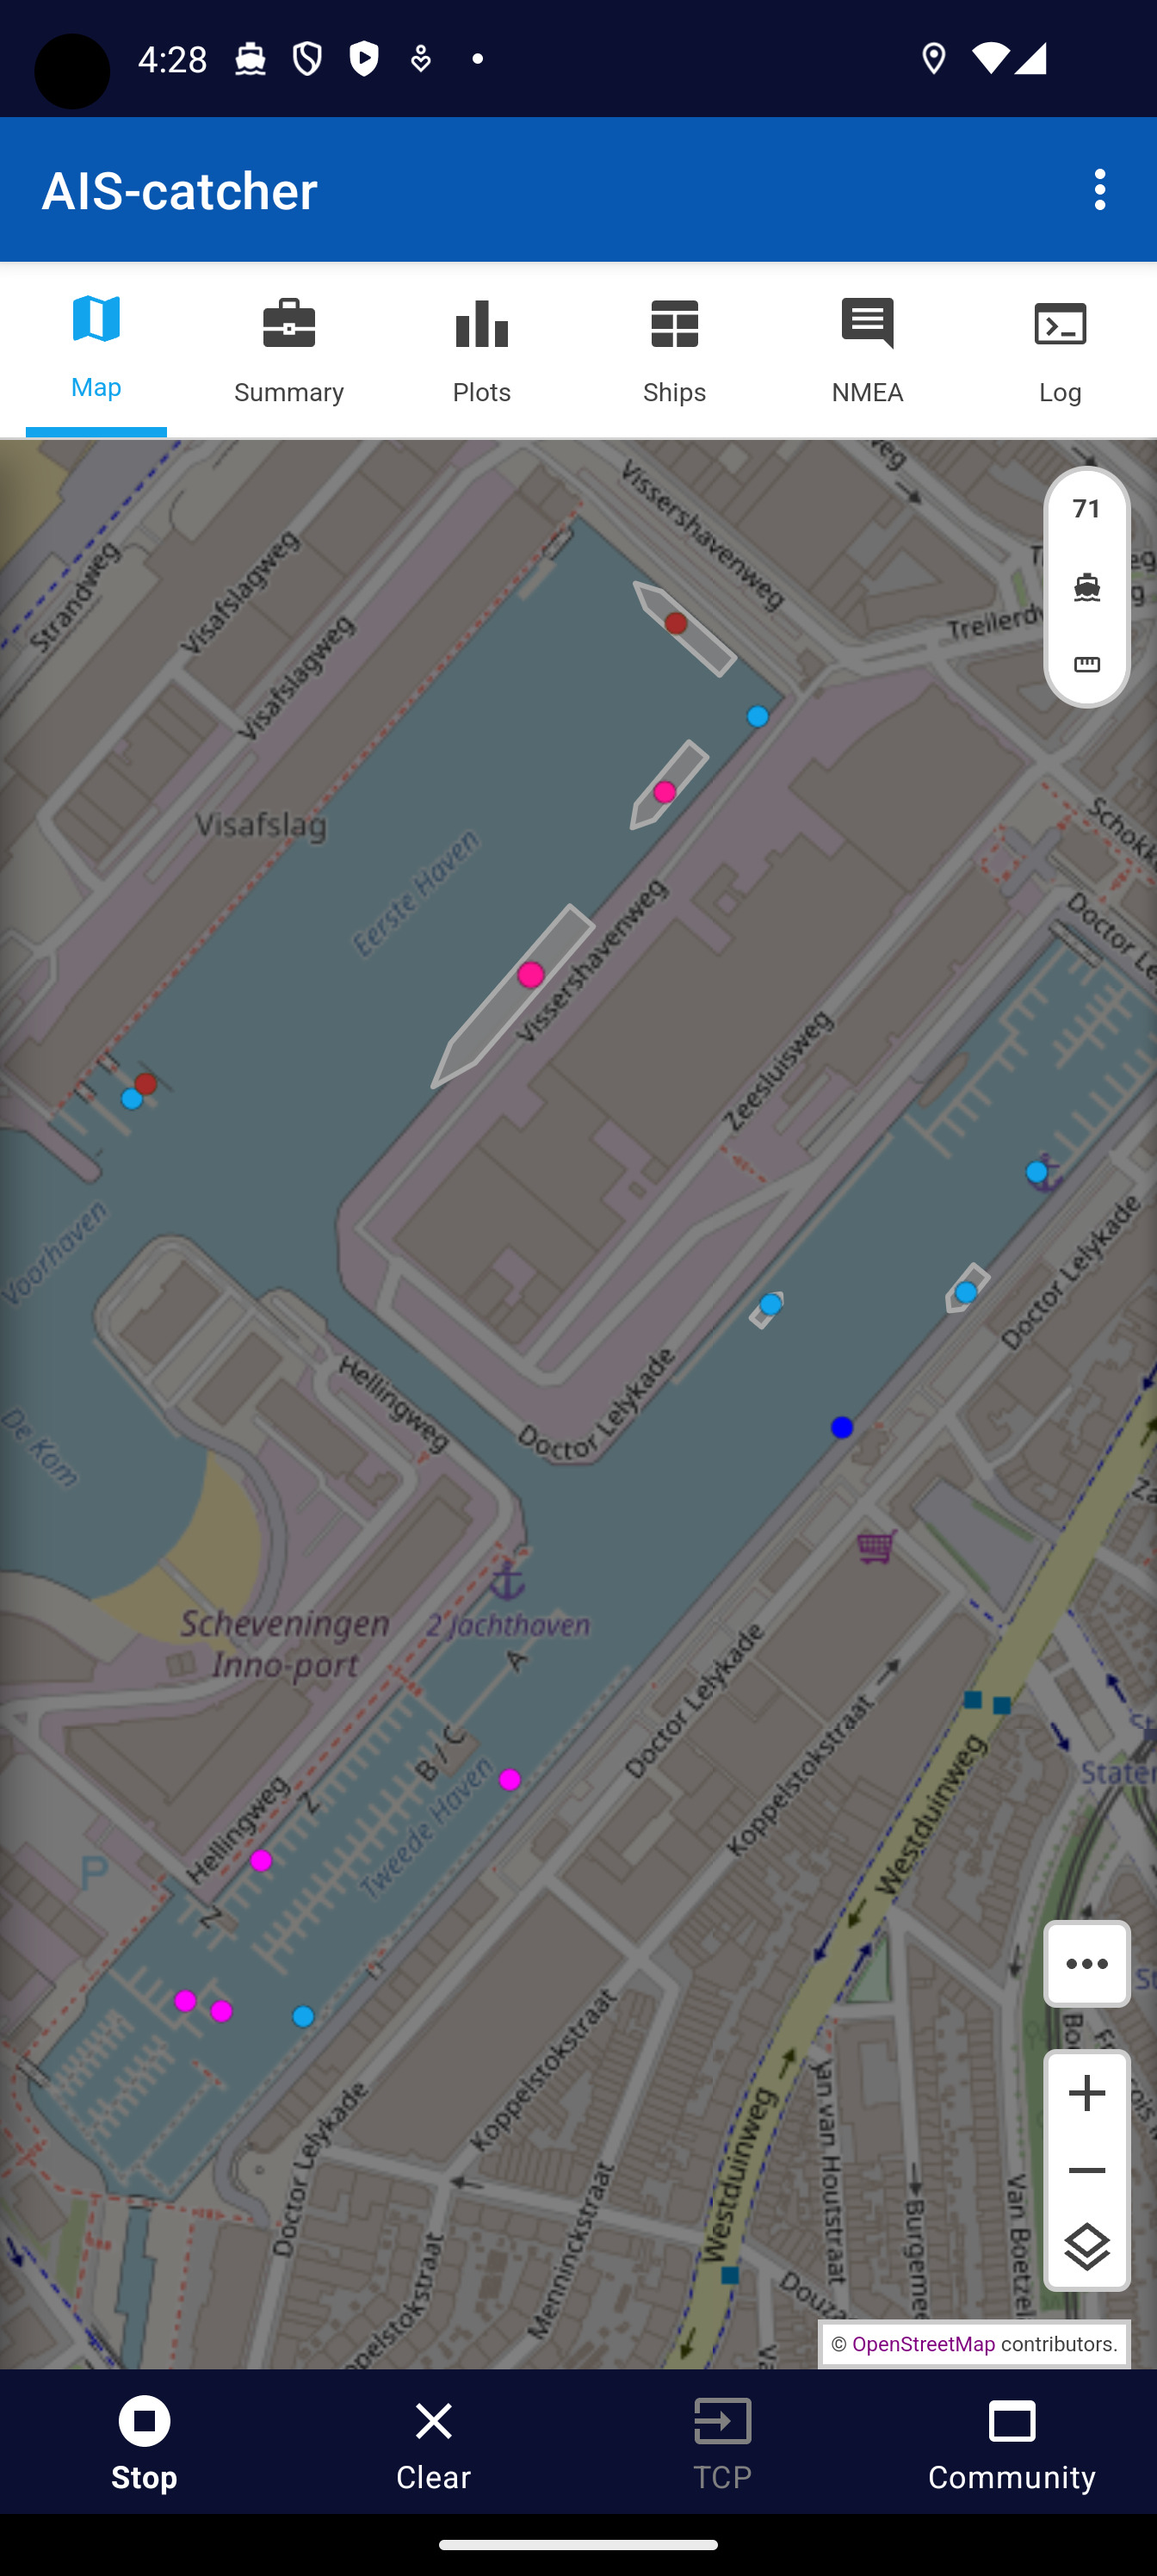
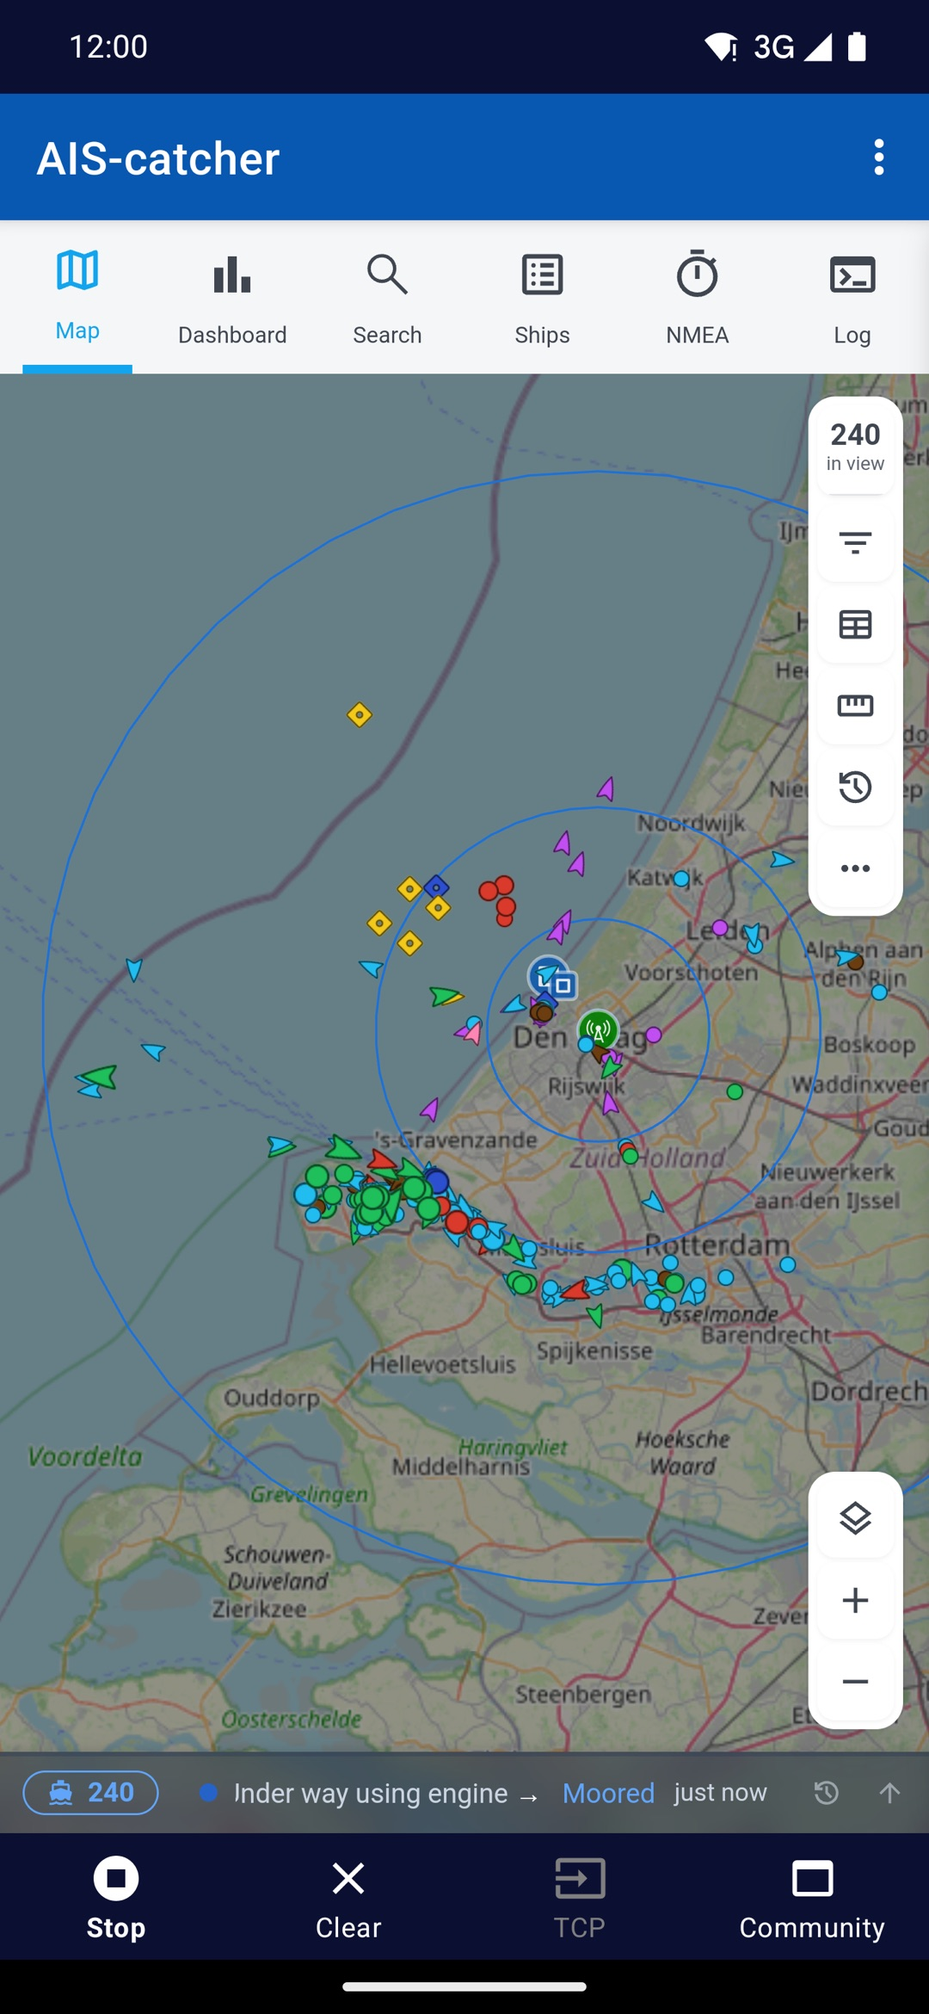
Screenshots of today's app in the README and the store listing: the map, ship outlines in port, the ship card, the dashboard's AIS and GPS tabs with the sky view, and dark mode

diff --git a/README.md b/README.md
@@ -15,12 +15,14 @@ Here you can find a [link](https://github.com/jvde-github/AIS-catcher-for-Androi
 
 AIS-catcher had a recent overhaul. The instructions below still are relevant but the visualization of the results is now based on the same code as the AIS-catcher web interface. The instructions will be updated in due course.
 <p align="center">
-<img src="https://github.com/jvde-github/AIS-catcher-for-Android/assets/52420030/076920d4-e75a-409c-87ea-d286df8eb046" width=20% height=20%>  &nbsp;
-<img src="https://github.com/jvde-github/AIS-catcher-for-Android/assets/52420030/06f73ba9-3e0d-411d-85ef-ecb6730023b4" width=20% height=20%>  &nbsp;
-<img src="https://github.com/jvde-github/AIS-catcher-for-Android/assets/52420030/dd867256-9e7e-4822-a1e2-dc6115400513" width=20% height=20%>  &nbsp; <br>
-<img src="https://github.com/jvde-github/AIS-catcher-for-Android/assets/52420030/f29801ec-a4d5-4e2d-8568-aae240868048" width=20% height=20%>  &nbsp;
-<img src="https://github.com/jvde-github/AIS-catcher-for-Android/assets/52420030/34368bcf-499b-4497-bfb0-2645bfb9fc2a" width=20% height=20%>  &nbsp;
-<img src="https://github.com/jvde-github/AIS-catcher-for-Android/assets/52420030/6e57de02-cd9a-4778-81fe-4df2242e8907" width=20% height=20%>  &nbsp;
+<img src="fastlane/metadata/android/en-US/images/phoneScreenshots/01.jpg" alt="Map" width=20% height=20%>  &nbsp;
+<img src="fastlane/metadata/android/en-US/images/phoneScreenshots/02.jpg" alt="Ship outlines in port" width=20% height=20%>  &nbsp;
+<img src="fastlane/metadata/android/en-US/images/phoneScreenshots/03.jpg" alt="Ship card" width=20% height=20%>  &nbsp;
+<img src="fastlane/metadata/android/en-US/images/phoneScreenshots/04.jpg" alt="Dashboard: AIS reception" width=20% height=20%>  &nbsp; <br>
+<img src="fastlane/metadata/android/en-US/images/phoneScreenshots/05.jpg" alt="Dashboard: GPS" width=20% height=20%>  &nbsp;
+<img src="fastlane/metadata/android/en-US/images/phoneScreenshots/06.jpg" alt="GPS sky view" width=20% height=20%>  &nbsp;
+<img src="fastlane/metadata/android/en-US/images/phoneScreenshots/07.jpg" alt="Map in dark mode" width=20% height=20%>  &nbsp;
+<img src="fastlane/metadata/android/en-US/images/phoneScreenshots/08.jpg" alt="GPS sky view in dark mode" width=20% height=20%>  &nbsp;
 </p>
 
 The requirements to receive AIS signals are: a RTL-SDR dongle (or alternatively an AirSpy Mini/R2/HF+), a simple antenna, 
